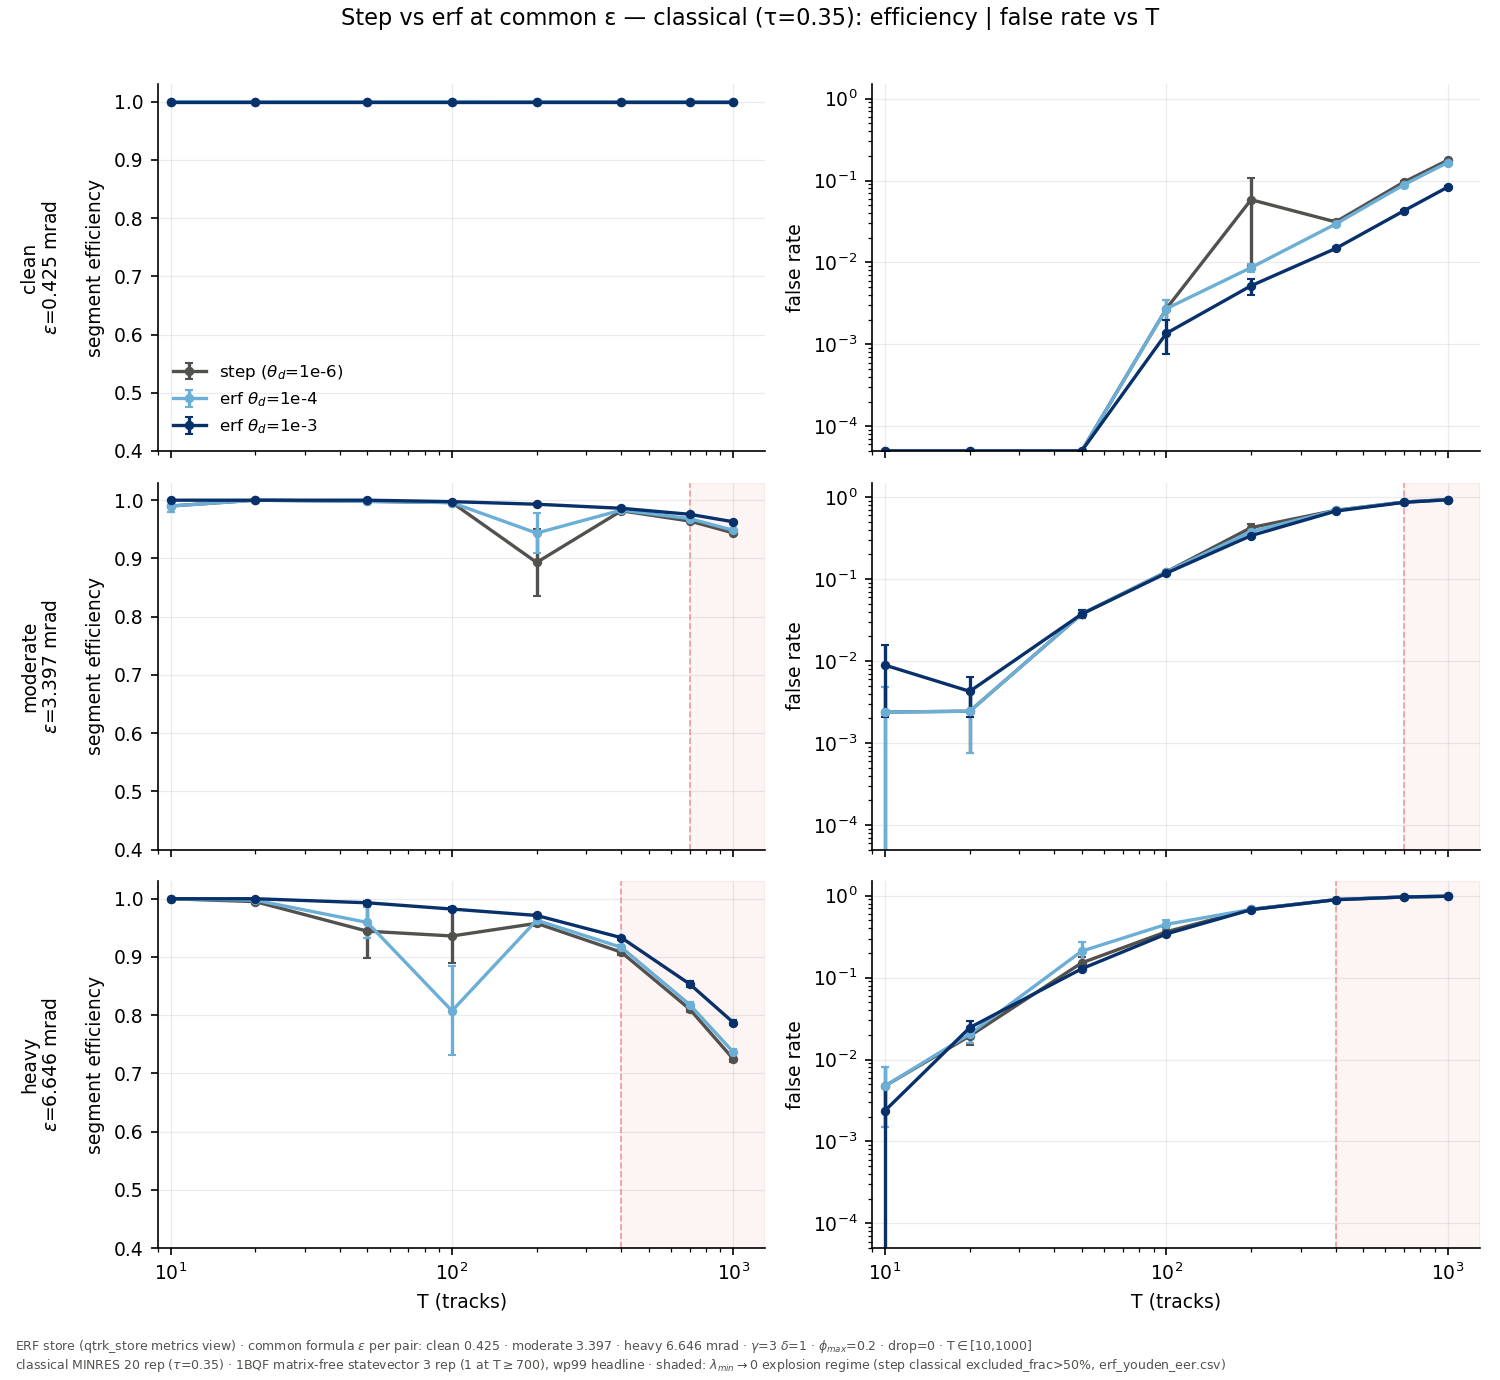
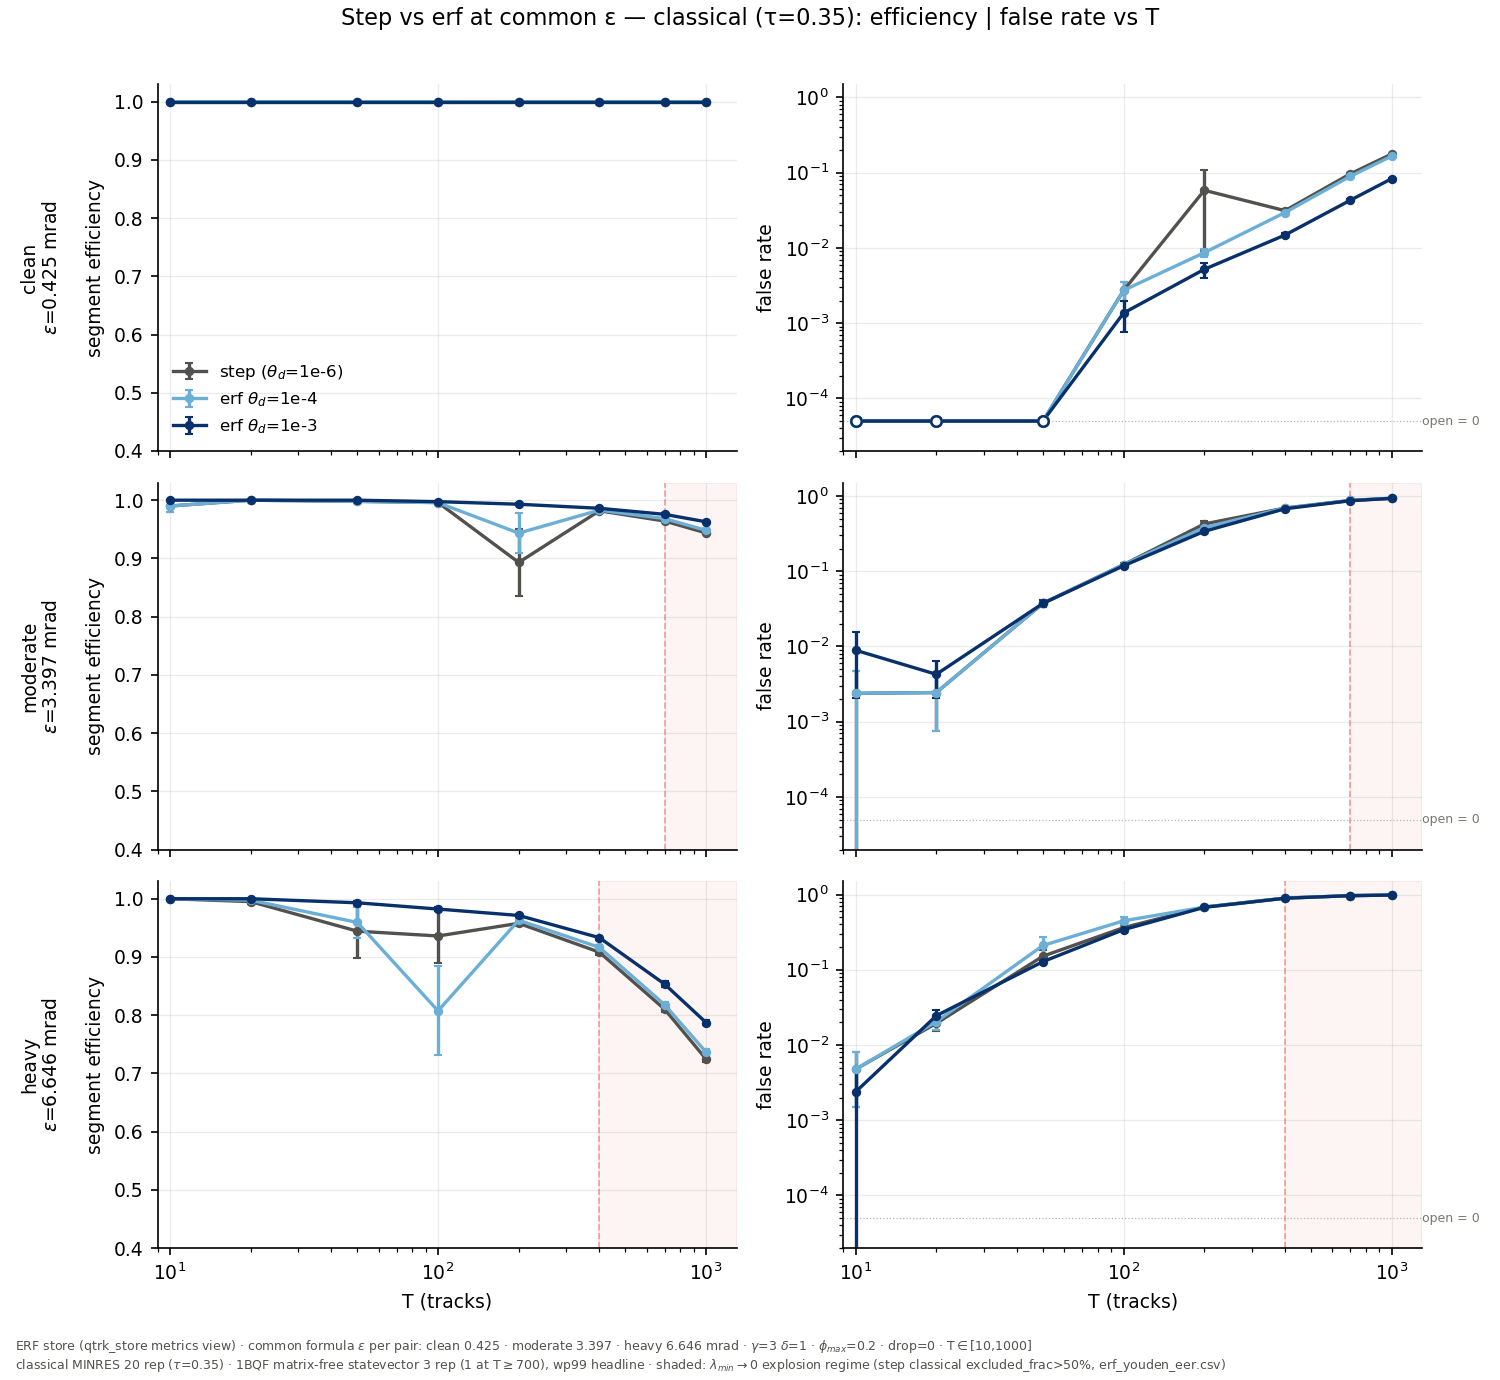
qtrk_pipeline: additive build_manifest (never drop ad-hoc rows) + hiT coverage
- build_manifest silently OVERWROTE manifest CSVs from specs: the 2026-07-02
  Noisy regeneration dropped 1,255 solved ad-hoc rows (QSVT third-solver
  campaigns, Verify densify T points, gamma top-ups) from the view - the
  'missing data points'. Repaired from solutions.csv.bak + wp99_v1.bak +
  npz-meta reconstruction (371 superseded GPU-key duplicates excluded);
  build_manifest now unions with the existing CSVs.
- specs: quantum_sv_hiT_reps 1 -> 3 (error bars at T>=700) and sigma_res=0.05
  quantum cap lifted to the full ladder (matrix-free removed the Aer wall).
  261-solve top-up submitted (clusters 5015382/83), 13 device-twins copied.
- step_vs_erf: measured far=0 now renders as an open marker at the display
  floor ('open = 0') instead of a half-clipped point that reads as a gap.

diff --git a/Toy_Characterisation/_shared/qtrk_pipeline/manifest.py b/Toy_Characterisation/_shared/qtrk_pipeline/manifest.py
@@ -75,17 +75,20 @@ class StudySpec:
     quantum_reps_by_readout: dict = field(
         default_factory=lambda: {"statevector": 3, "sampling": 20})
     quantum_shots: int = 100_000         # shots for the sampling readout
-    # Statevector is EXACT (no shot noise), so high-T reps only add event-to-event
-    # variance already sampled at lower T. Cut to 1 rep at T>=700 to tame the GPU
-    # tail (each T=1000 statevector solve is ~88 min). Sampling unaffected.
+    # Statevector is EXACT (no shot noise), so high-T reps only sample
+    # event-to-event variance — but 1 rep gives NO error bar and a single
+    # pathological event skews the mean. 3 reps at T>=700 (uniform with the
+    # low-T convention) since the matrix-free engine removed the Aer cost that
+    # motivated the 1-rep cut (user: full-range coverage, 2026-07-03).
     quantum_sv_hiT: int = 700            # T threshold for the high-T rep cut
-    quantum_sv_hiT_reps: int = 1
-    # Large-noise (large-ε) cells have a HUGE 1BQF circuit (gates ∝ ε²): e.g.
-    # σ_res=0.05 (ε≈0.016) at T=400 needs ~96 GB, and worse at higher T — heavy AND
-    # marginal (classical recon already collapses at that noise). Cap quantum at
-    # T<=400 for ε >= quantum_hieps. (user, 2026-06-09)
+    quantum_sv_hiT_reps: int = 3
+    # Large-noise (large-ε) cells once had a HUGE 1BQF circuit cost in Aer
+    # (gates ∝ ε²: σ_res=0.05 at T=400 needed ~96 GB), so quantum was capped at
+    # T<=400 for ε >= quantum_hieps (user, 2026-06-09). The matrix-free engine
+    # removed that wall (statevector-only memory), so the cap is lifted to the
+    # full ladder (user: full-range coverage, 2026-07-03).
     quantum_hieps: float = 0.012
-    quantum_hieps_Tmax: int = 400
+    quantum_hieps_Tmax: int = 1000
 
     def quantum_for(self, eps: float, T: int) -> bool:
         """Whether to run quantum for this (epsilon, T)."""
@@ -190,10 +193,28 @@ def build_manifest(specs: list[StudySpec], write: bool = True):
 
     if write:
         md = manifest_dir()
-        events.to_csv(md / "events.csv", index=False)
-        solves.to_csv(md / "solutions.csv", index=False)
-        print(f"[manifest] {len(events)} unique events -> {md/'events.csv'}")
-        print(f"[manifest] {len(solves)} unique solves -> {md/'solutions.csv'}")
+        # ADDITIVE merge with the CSVs already on disk: rows registered outside
+        # standard_specs (ad-hoc campaigns: QSVT third-solver, Verify densify,
+        # gamma top-ups, ...) must survive a spec-driven regeneration.  A plain
+        # overwrite here silently dropped 1,255 solved rows from the view on
+        # 2026-07-02 (repaired 2026-07-03) — never overwrite, always union.
+        ev_p, so_p = md / "events.csv", md / "solutions.csv"
+        if ev_p.exists():
+            old = pd.read_csv(ev_p)
+            keep = old[~old.event_key.isin(set(events.event_key))]
+            if len(keep):
+                events = pd.concat([events, keep], ignore_index=True)
+                print(f"[manifest] preserved {len(keep)} existing ad-hoc event rows")
+        if so_p.exists():
+            old = pd.read_csv(so_p)
+            keep = old[~old.sol_key.isin(set(solves.sol_key))]
+            if len(keep):
+                solves = pd.concat([solves, keep], ignore_index=True)
+                print(f"[manifest] preserved {len(keep)} existing ad-hoc solve rows")
+        events.to_csv(ev_p, index=False)
+        solves.to_csv(so_p, index=False)
+        print(f"[manifest] {len(events)} unique events -> {ev_p}")
+        print(f"[manifest] {len(solves)} unique solves -> {so_p}")
         _print_breakdown(solves)
     return events, solves
 

diff --git a/Toy_Characterisation/ERF/step_vs_erf_store.py b/Toy_Characterisation/ERF/step_vs_erf_store.py
@@ -48,6 +48,8 @@ KERNELS = [(1e-6, "step ($\\theta_d$=1e-6)", "#52514e", "-"),
            (1e-4, "erf $\\theta_d$=1e-4", "#6baed6", "-"),
            (1e-3, "erf $\\theta_d$=1e-3", "#08306b", "-")]
 
+FAR_FLOOR = 5e-5   # log-axis display floor; a measured far=0 sits here as an OPEN marker
+
 FOOT = (r"ERF store (qtrk_store metrics view) · common formula $\varepsilon$ per pair: "
         "clean 0.425 · moderate 3.397 · heavy 6.646 mrad · "
         r"$\gamma$=3 $\delta$=1 · $\phi_{max}$=0.2 · drop=0 · T$\in$[10,1000]"
@@ -110,12 +112,18 @@ def plot_solver(erf, solver, headline_cols, faded_cols, fname, title):
             ec, fc = headline_cols
             ax_e.errorbar(T, ge[(ec, "mean")], yerr=ge[(ec, "sem")], color=color,
                           ls=ls, marker="o", ms=3.5, lw=1.6, capsize=2, label=lab)
-            ax_f.errorbar(T, np.clip(ge[(fc, "mean")], 5e-5, None), yerr=ge[(fc, "sem")],
+            fmean = ge[(fc, "mean")].values
+            ax_f.errorbar(T, np.clip(fmean, FAR_FLOOR, None), yerr=ge[(fc, "sem")],
                           color=color, ls=ls, marker="o", ms=3.5, lw=1.6, capsize=2)
+            # a measured 0 is data, not a gap: open marker pinned at the floor
+            zero = fmean <= 0
+            if zero.any():
+                ax_f.plot(T[zero], np.full(zero.sum(), FAR_FLOOR), marker="o",
+                          ms=5, mfc="white", mec=color, mew=1.2, ls="none", zorder=5)
             if faded_cols:
                 ec2, fc2 = faded_cols
                 ax_e.plot(T, ge[(ec2, "mean")], color=color, ls=":", lw=1.0, alpha=0.45)
-                ax_f.plot(T, np.clip(ge[(fc2, "mean")], 5e-5, None), color=color,
+                ax_f.plot(T, np.clip(ge[(fc2, "mean")], FAR_FLOOR, None), color=color,
                           ls=":", lw=1.0, alpha=0.45)
         if onset.get(pair):
             for ax in (ax_e, ax_f):
@@ -125,7 +133,10 @@ def plot_solver(erf, solver, headline_cols, faded_cols, fname, title):
         ax_f.set_ylabel("false rate")
         ax_e.set_ylim(0.4, 1.03)
         ax_f.set_yscale("log")
-        ax_f.set_ylim(5e-5, 1.5)
+        ax_f.set_ylim(2e-5, 1.5)
+        ax_f.axhline(FAR_FLOOR, color="#b9b7b1", lw=0.6, ls=":", zorder=0)
+        ax_f.text(1250, FAR_FLOOR, " open = 0", fontsize=6, color="#79776f",
+                  va="center", ha="left", clip_on=False)
         for ax in (ax_e, ax_f):
             ax.set_xscale("log")
             ax.set_xlim(9, 1300)
